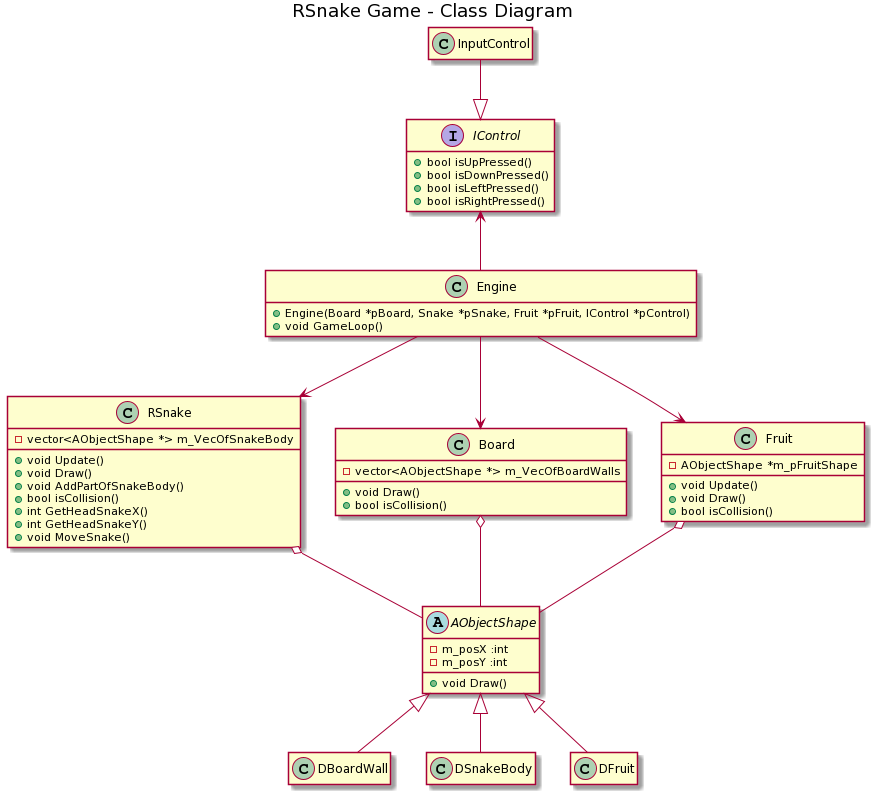
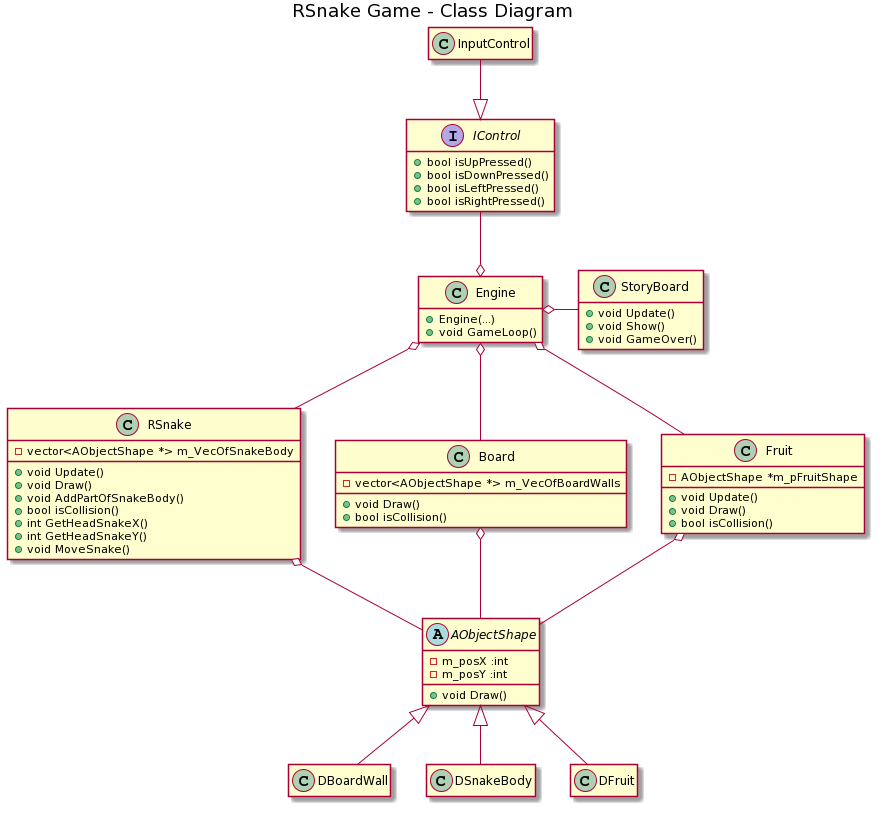
Documentation update

diff --git a/README.md b/README.md
@@ -1,14 +1,15 @@
 # RSnake
 
-Simple game in C++ base on historical "Snake"
+Simple console game in C++ based on historical "Snake"
 
 ![image info](./RSnake_gameScreen.png)
 
+Player Controls:
+Keys: <kbd>UP</kbd>, <kbd>DOWN</kbd>, <kbd>LEFT</kbd>, <kbd>RIGHT</kbd>
 
 ### 1.1 Class Diagram
 
 ![image info](./RSnake_classDiagram.png)
-
 
 ```plantuml
 @startuml
@@ -18,7 +19,7 @@ hide empty methods
 title RSnake Game - Class Diagram
 
 class Engine {
-  +Engine(Board *pBoard, Snake *pSnake, Fruit *pFruit, IControl *pControl)
+  +Engine(...)
   +void GameLoop()
 }
 
@@ -44,6 +45,12 @@ class Fruit {
  + void Draw()
  +bool isCollision()
  -AObjectShape *m_pFruitShape
+}
+
+class StoryBoard {
+ + void Update()
+ + void Show()
+ + void GameOver()
 }
 
 interface IControl{
@@ -76,10 +83,11 @@ AObjectShape <|-down- DSnakeBody
 AObjectShape <|-down- DBoardWall
 AObjectShape <|-down- DFruit
 
-Engine --> RSnake
-Engine --> Board
-Engine --> Fruit
-Engine -up-> IControl
+Engine o-- RSnake
+Engine o-- Board
+Engine o-- Fruit
+Engine o-right- StoryBoard
+Engine o-up- IControl
 
 RSnake o-- AObjectShape
 Board  o-- AObjectShape
@@ -92,9 +100,13 @@ Fruit  o-- AObjectShape
 
 Execute the following commands:
 
-> mkdir build
+```
+mkdir build
 cd build
 cmake .. -G "MinGW Makefiles"
 mingw32-make
+```
+
+
 
 
